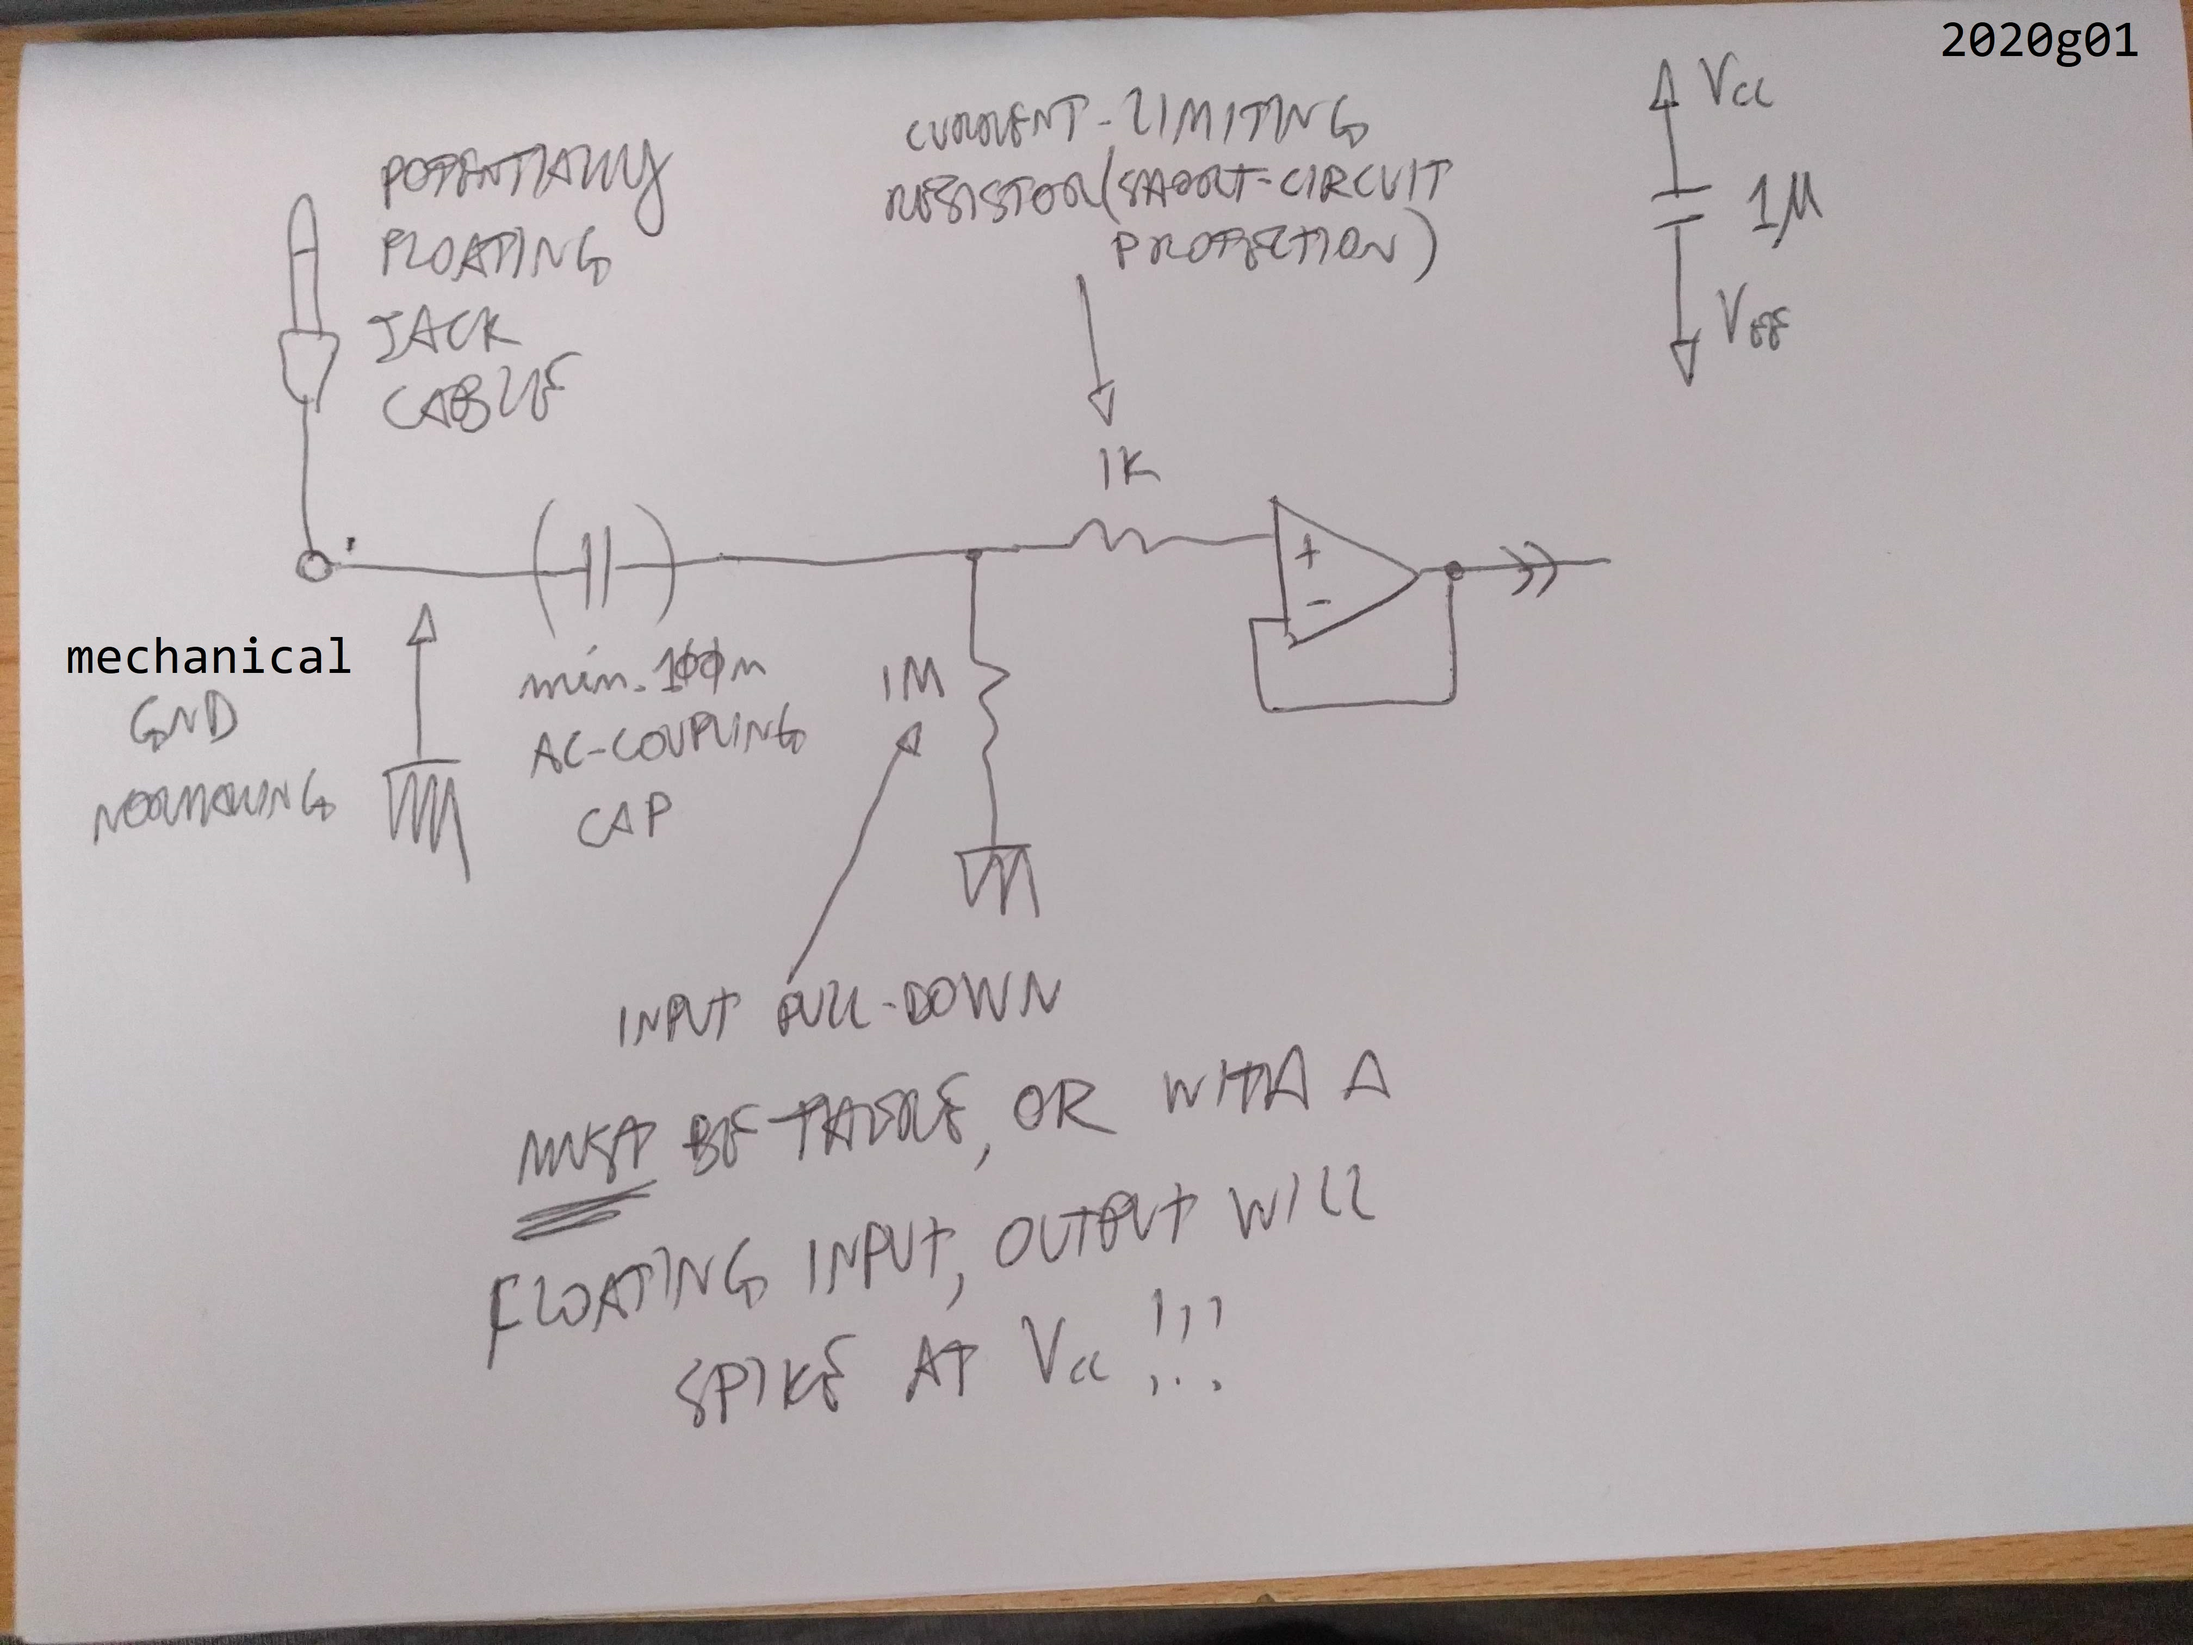
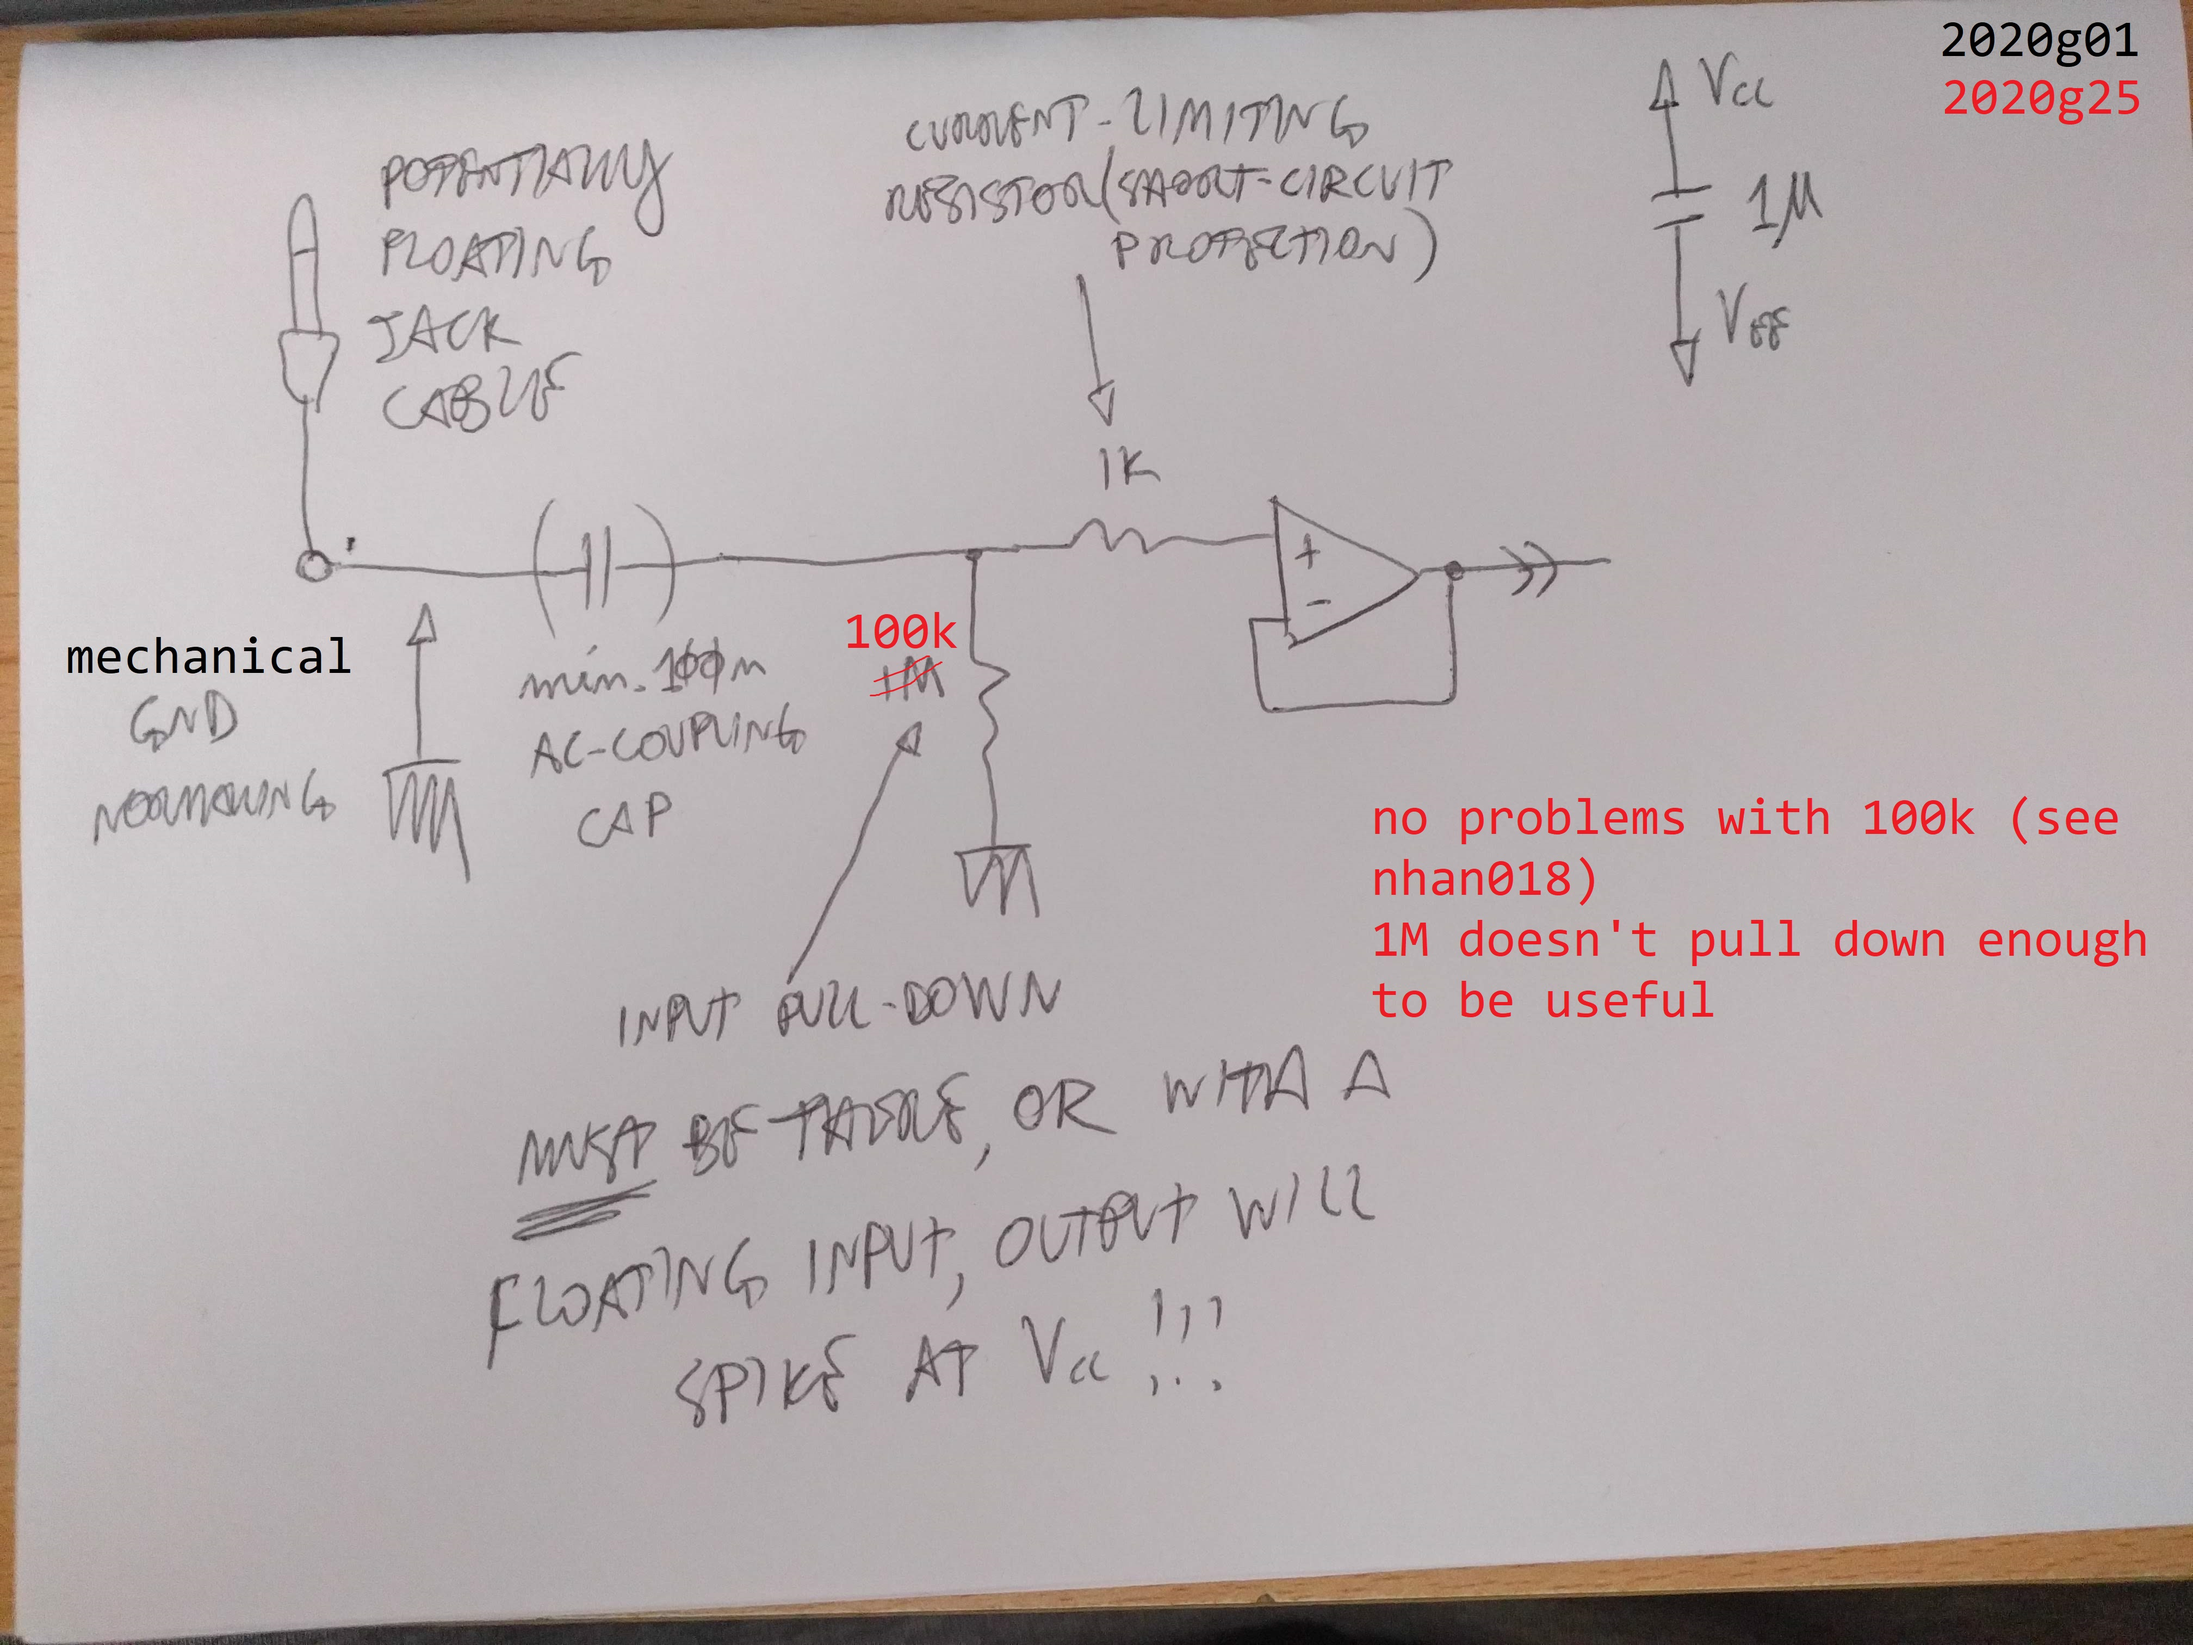
nj

diff --git a/__nhan008_input-output_protection_coupling/README.md b/__nhan008_input-output_protection_coupling/README.md
@@ -1,11 +1,14 @@
-2020g01
+2020g25
 
 * OUTPUT:  100R in series just before the output jack (see output.jpg) - shortcut protection
-* INPUT: 1M pull-down + 1k series, see INPUT.jpg
-  - see nishInput.jpg, I used an ac-blocking cap + 1M shunt (1k series omitted by mistake)
+* INPUT: 100k pull-down + 1k series, see INPUT.jpg
+  1M is not really useful, with a floating input, it doesn't pull down enough to suppress the noise floor.
+  I was using 1M to keep the input impedance high, but from nhan018 we can see even with a guitar, a 100k pull-down is ok.
+  - see nishInput.jpg, I used an ac-blocking cap + 1M shunt (1k series omitted by mistake) -- (also I could have used a 100k pull-down)
     - 2020g01 -- retested 100n ac-coup + 1M shunt + 1k series >> OK!
+    - **TO TEST:** 100n ac-coup + 100k shunt + 1k series (with guitar + amp) **this is the only untested case (I rarely use ac-coupling caps on inputs, tho)**
   - the 1k series resistor is current-limiting, a form of input protection
-  - the 1M shunt is a pull-down resitor, keeps the input near GND when nothing's connected, preventing the output to skyrocket up at Vcc
+  - the 100k-1M shunt is a pull-down resitor, keeps the input near GND when nothing's connected, preventing the output to skyrocket up at Vcc
 
 
 * bhoooo.jpg mi sembra non abbia senso: perchè ho collegato un inverting opamp in quel punto del ciruito? che è poi da dove lo collego allo scope...bhoooo
